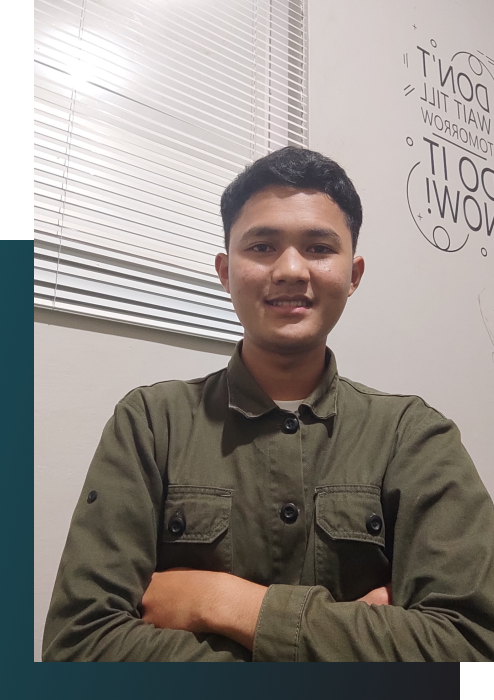
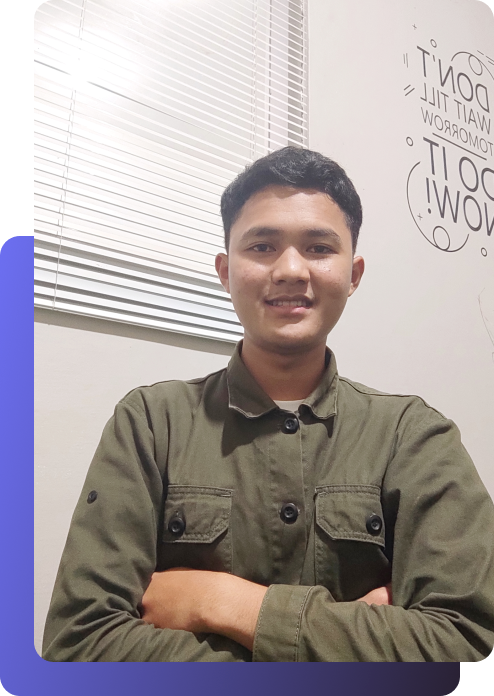
revisi

diff --git a/index.html b/index.html
@@ -107,7 +107,7 @@
                 <p class="font-medium text-base text-secondary mb-6">Ayo ikuti sosial media saya</p>
                 <div class="flex items-center">
                     <!-- youtube -->
-                    <a href="https://youtube.com/RAFMLNA" aria-label="youtube rafli"target="_blank" class="w-9 h-9 mr-3 rounded-full flex justify-center items-center border border-slate-400 hover:bg-primary hover:border-primary hover:text-white">
+                    <a href="https://youtube.com/@rafliadijaya2196" aria-label="youtube rafli"target="_blank" class="w-9 h-9 mr-3 rounded-full flex justify-center items-center border border-slate-400 hover:bg-primary hover:border-primary hover:text-white">
                         <svg viewBox="0 0 512 512" width="20" xmlns="http://www.w3.org/2000/svg" xmlns:xlink="http://www.w3.org/1999/xlink" class="fill-current dark:fill-white"><g><path d="M260.4,449c-57.1-1.8-111.4-3.2-165.7-5.3c-11.7-0.5-23.6-2.3-35-5c-21.4-5-36.2-17.9-43.8-39c-6.1-17-8.3-34.5-9.9-52.3   C2.5,305.6,2.5,263.8,4.2,222c1-23.6,1.6-47.4,7.9-70.3c3.8-13.7,8.4-27.1,19.5-37c11.7-10.5,25.4-16.8,41-17.5   c42.8-2.1,85.5-4.7,128.3-5.1c57.6-0.6,115.3,0.2,172.9,1.3c24.9,0.5,50,1.8,74.7,5c22.6,3,39.5,15.6,48.5,37.6   c6.9,16.9,9.5,34.6,11,52.6c3.9,45.1,4,90.2,1.8,135.3c-1.1,22.9-2.2,45.9-8.7,68.2c-7.4,25.6-23.1,42.5-49.3,48.3   c-10.2,2.2-20.8,3-31.2,3.4C366.2,445.7,311.9,447.4,260.4,449z M205.1,335.3c45.6-23.6,90.7-47,136.7-70.9   c-45.9-24-91-47.5-136.7-71.4C205.1,240.7,205.1,287.6,205.1,335.3z"/></g></svg>
                     </a>
                     <!-- Instagram -->
@@ -115,7 +115,7 @@
                         <svg width="20" class="fill-current dark:fill-white" viewBox="0 0 512 512" xmlns="http://www.w3.org/2000/svg"><g><path d="M505,257c0,34.8-0.7,69.7,0.2,104.5c1.5,61.6-37.2,109.2-86.5,130.4c-19.8,8.5-40.6,13-62.1,13c-67.3,0.1-134.7,1-202-0.3   c-50.7-1-92.4-22.2-122.3-64c-15.7-22-23.2-47-23.2-74.1c0-71.7,0-143.3,0-215c0-58.5,28.5-99.4,79.1-126C110.2,14,134.1,9.1,159,9   c65.3,0,130.7-0.4,196,0.2c50.7,0.4,93,19.8,124.2,60.6c17.4,22.8,25.8,49,25.8,77.8C505,184,505,220.5,505,257z M46,257   c0,36.7,0,73.3,0,110c0,16.4,3.8,31.8,12.3,45.7c22.3,36.5,56,54.3,97.8,55c67.1,1,134.3,0.4,201.5,0.2c16.5,0,32.5-3.4,47.4-10.5   c40.6-19.4,63.3-50.3,63.1-96.7c-0.4-71-0.1-142-0.1-213c0-20.1-5.7-38.5-17.6-54.7c-23-31.1-54.8-46.4-92.8-46.8   c-67-0.8-134-0.3-201-0.2c-14.3,0-28.1,2.9-41.5,7.9c-36.8,13.7-71,48.4-69.4,99.5C46.9,188,46,222.5,46,257z"/><path d="M257.6,363c-64.5,0-116.5-51.4-116.6-115.4c-0.1-63,52.3-114.6,116.4-114.6c64.3-0.1,116.5,51.4,116.6,114.9   C374,311.3,321.9,362.9,257.6,363z M257.6,326c43.9,0,79.5-35.1,79.4-78.3c-0.1-42.8-35.7-77.8-79.4-77.8   c-43.9,0-79.7,34.9-79.7,78C178,291.1,213.7,326.1,257.6,326z"/><path d="M387.5,98c13.5,0,24.5,11.5,24.5,25.6c-0.1,14.1-11.2,25.5-24.7,25.4c-13.3-0.1-24.2-11.5-24.2-25.3   C363,109.6,374,98,387.5,98z"/></g></svg>
                     </a>
                     <!-- WhatsApp -->
-                    <a href="https://whatsapp.com/081320179936" target="_blank" class="w-9 h-9 mr-3 rounded-full flex justify-center items-center border border-slate-400 hover:bg-primary hover:border-primary hover:text-white">
+                    <a href="https://wa.me/081320179936" target="_blank" class="w-9 h-9 mr-3 rounded-full flex justify-center items-center border border-slate-400 hover:bg-primary hover:border-primary hover:text-white">
                         <svg xmlns="http://www.w3.org/2000/svg" x="0px" y="0px"
 	 width="20" viewBox="0 0 90 90" class="fill-current dark:fill-white">
 <g>
@@ -134,7 +134,7 @@
 <g></g><g></g><g></g><g></g><g></g><g></g><g></g><g></g><g></g><g></g><g></g></svg>
                     </a>
                     <!-- git hub -->
-                    <a href="https://youtube.com/RAFMLNA" target="_blank" class="w-9 h-9 mr-3 rounded-full flex justify-center items-center border border-slate-400 hover:bg-primary hover:border-primary hover:text-white">
+                    <a href="https://github.com/Raflisky" target="_blank" class="w-9 h-9 mr-3 rounded-full flex justify-center items-center border border-slate-400 hover:bg-primary hover:border-primary hover:text-white">
                         <svg class="fill-current dark:fill-white" width="100%" height="100%" viewBox="0 0 64 64" version="1.1" xmlns="http://www.w3.org/2000/svg" xmlns:xlink="http://www.w3.org/1999/xlink" xml:space="preserve" xmlns:serif="http://www.serif.com/" style="fill-rule:evenodd;clip-rule:evenodd;stroke-linejoin:round;stroke-miterlimit:2;"><rect id="Icons" x="0" y="-192" width="1280" height="800" style="fill:none;"/><g id="Icons1" serif:id="Icons"><g id="Strike"></g><g id="H1"></g><g id="H2"></g><g id="H3"></g><g id="list-ul"></g><g id="hamburger-1"></g><g id="hamburger-2"></g><g id="list-ol"></g><g id="list-task"></g><g id="trash"></g><g id="vertical-menu"></g><g id="horizontal-menu"></g><g id="sidebar-2"></g><g id="Pen"></g><g id="Pen1" serif:id="Pen"></g><g id="clock"></g><g id="external-link"></g><g id="hr"></g><g id="info"></g><g id="warning"></g><g id="plus-circle"></g><g id="minus-circle"></g><g id="vue"></g><g id="cog"></g><path id="github" d="M32.029,8.345c-13.27,0 -24.029,10.759 -24.029,24.033c0,10.617 6.885,19.624 16.435,22.803c1.202,0.22 1.64,-0.522 1.64,-1.16c0,-0.569 -0.02,-2.081 -0.032,-4.086c-6.685,1.452 -8.095,-3.222 -8.095,-3.222c-1.093,-2.775 -2.669,-3.514 -2.669,-3.514c-2.182,-1.492 0.165,-1.462 0.165,-1.462c2.412,0.171 3.681,2.477 3.681,2.477c2.144,3.672 5.625,2.611 6.994,1.997c0.219,-1.553 0.838,-2.612 1.526,-3.213c-5.336,-0.606 -10.947,-2.669 -10.947,-11.877c0,-2.623 0.937,-4.769 2.474,-6.449c-0.247,-0.608 -1.072,-3.051 0.235,-6.36c0,0 2.018,-0.646 6.609,2.464c1.917,-0.533 3.973,-0.8 6.016,-0.809c2.041,0.009 4.097,0.276 6.017,0.809c4.588,-3.11 6.602,-2.464 6.602,-2.464c1.311,3.309 0.486,5.752 0.239,6.36c1.54,1.68 2.471,3.826 2.471,6.449c0,9.232 -5.62,11.263 -10.974,11.858c0.864,0.742 1.632,2.208 1.632,4.451c0,3.212 -0.029,5.804 -0.029,6.591c0,0.644 0.432,1.392 1.652,1.157c9.542,-3.185 16.421,-12.186 16.421,-22.8c0,-13.274 -10.76,-24.033 -24.034,-24.033"/><g id="logo"></g><g id="eye-slash"></g><g id="eye"></g><g id="toggle-off"></g><g id="shredder"></g><g id="spinner--loading--dots-" serif:id="spinner [loading, dots]"></g><g id="react"></g></g></svg>
                     </a>
                 </div>
@@ -158,10 +158,10 @@
             <div class="w-full px-4 flex flex-wrap justify-center xl:w-10/12 xl:mx-auto">
                 <div class="mb-12 p-4 md:w-1/2">
                     <div class="rounded shadow-md overflow-hidden">
-                        <img src="assets/img/absenGG.png" alt="Absen Siswa Web" width="w-full">
+                        <img src="assets/img/project-foodid.png" alt="Absen Siswa Web" width="w-full">
                     </div>
-                    <h3 class="font-semibold text-xl text-white dark:text-white mt-5 mb-5">Aplikasi Sekolah Berbasis Web</h3>
-                    <p class="font-medium text-base text-slate-500">Aplikasi website ini dibuat dengan menggunakan bahasa pemerograman Javascript dan PHP.</p>
+                    <h3 class="font-semibold text-xl text-white dark:text-white mt-5 mb-5">Landing Page Foodid</h3>
+                    <p class="font-medium text-base text-slate-500">Website ini dibuat dengan menggunakan bahasa pemerograman Javascript dengan frameworknya Dari React yaitu Next JS dan untuk</p>
                 </div>
                 <div class="mb-12 p-4 md:w-1/2">
                     <div class="rounded shadow-md overflow-hidden">
@@ -388,7 +388,7 @@
                     <svg class="fill-white" width="100%" height="100%" viewBox="0 0 64 64" version="1.1" xmlns="http://www.w3.org/2000/svg" xmlns:xlink="http://www.w3.org/1999/xlink" xml:space="preserve" xmlns:serif="http://www.serif.com/" style="fill-rule:evenodd;clip-rule:evenodd;stroke-linejoin:round;stroke-miterlimit:2;"><rect id="Icons" x="0" y="-192" width="1280" height="800" style="fill:none;"/><g id="Icons1" serif:id="Icons"><g id="Strike"></g><g id="H1"></g><g id="H2"></g><g id="H3"></g><g id="list-ul"></g><g id="hamburger-1"></g><g id="hamburger-2"></g><g id="list-ol"></g><g id="list-task"></g><g id="trash"></g><g id="vertical-menu"></g><g id="horizontal-menu"></g><g id="sidebar-2"></g><g id="Pen"></g><g id="Pen1" serif:id="Pen"></g><g id="clock"></g><g id="external-link"></g><g id="hr"></g><g id="info"></g><g id="warning"></g><g id="plus-circle"></g><g id="minus-circle"></g><g id="vue"></g><g id="cog"></g><path id="github" d="M32.029,8.345c-13.27,0 -24.029,10.759 -24.029,24.033c0,10.617 6.885,19.624 16.435,22.803c1.202,0.22 1.64,-0.522 1.64,-1.16c0,-0.569 -0.02,-2.081 -0.032,-4.086c-6.685,1.452 -8.095,-3.222 -8.095,-3.222c-1.093,-2.775 -2.669,-3.514 -2.669,-3.514c-2.182,-1.492 0.165,-1.462 0.165,-1.462c2.412,0.171 3.681,2.477 3.681,2.477c2.144,3.672 5.625,2.611 6.994,1.997c0.219,-1.553 0.838,-2.612 1.526,-3.213c-5.336,-0.606 -10.947,-2.669 -10.947,-11.877c0,-2.623 0.937,-4.769 2.474,-6.449c-0.247,-0.608 -1.072,-3.051 0.235,-6.36c0,0 2.018,-0.646 6.609,2.464c1.917,-0.533 3.973,-0.8 6.016,-0.809c2.041,0.009 4.097,0.276 6.017,0.809c4.588,-3.11 6.602,-2.464 6.602,-2.464c1.311,3.309 0.486,5.752 0.239,6.36c1.54,1.68 2.471,3.826 2.471,6.449c0,9.232 -5.62,11.263 -10.974,11.858c0.864,0.742 1.632,2.208 1.632,4.451c0,3.212 -0.029,5.804 -0.029,6.591c0,0.644 0.432,1.392 1.652,1.157c9.542,-3.185 16.421,-12.186 16.421,-22.8c0,-13.274 -10.76,-24.033 -24.034,-24.033"/><g id="logo"></g><g id="eye-slash"></g><g id="eye"></g><g id="toggle-off"></g><g id="shredder"></g><g id="spinner--loading--dots-" serif:id="spinner [loading, dots]"></g><g id="react"></g></g></svg>
                 </a>
             </div>
-            <p class="font-medium text-xs text-slate-500 text-center hover:text-slate-300 transition duration-500">© 2022 Rafli Maulana Yusuf Herman. All rights reserved.</p>
+            <p class="font-medium text-xs text-slate-500 text-center hover:text-slate-300 transition duration-500">© 2023 Rafli Maulana Yusuf Herman. All rights reserved.</p>
         </div>
     </div> 
 </footer>

diff --git a/dist/output.css b/dist/output.css
@@ -575,28 +575,12 @@ video {
   top: 100%;
 }
 
-.bottom-0 {
-  bottom: 0px;
-}
-
-.left-1\/2 {
-  left: 50%;
-}
-
 .bottom-5 {
   bottom: 1.25rem;
 }
 
 .right-5 {
   right: 1.25rem;
-}
-
-.bottom-10 {
-  bottom: 2.5rem;
-}
-
-.right-10 {
-  right: 2.5rem;
 }
 
 .z-10 {
@@ -642,8 +626,8 @@ video {
   margin-bottom: 2.5rem;
 }
 
-.mt-10 {
-  margin-top: 2.5rem;
+.mt-16 {
+  margin-top: 4rem;
 }
 
 .mb-3 {
@@ -686,10 +670,6 @@ video {
   margin-bottom: 2rem;
 }
 
-.mt-16 {
-  margin-top: 4rem;
-}
-
 .block {
   display: block;
 }
@@ -722,14 +702,6 @@ video {
   height: 8rem;
 }
 
-.h-10 {
-  height: 2.5rem;
-}
-
-.h-20 {
-  height: 5rem;
-}
-
 .h-11 {
   height: 2.75rem;
 }
@@ -748,14 +720,6 @@ video {
 
 .w-44 {
   width: 11rem;
-}
-
-.w-10 {
-  width: 2.5rem;
-}
-
-.w-20 {
-  width: 5rem;
 }
 
 .w-11 {
@@ -788,15 +752,6 @@ video {
 
 .origin-bottom-left {
   transform-origin: bottom left;
-}
-
-.-translate-x-1\/2 {
-  --tw-translate-x: -50%;
-  transform: translate(var(--tw-translate-x), var(--tw-translate-y)) rotate(var(--tw-rotate)) skewX(var(--tw-skew-x)) skewY(var(--tw-skew-y)) scaleX(var(--tw-scale-x)) scaleY(var(--tw-scale-y));
-}
-
-.transform {
-  transform: translate(var(--tw-translate-x), var(--tw-translate-y)) rotate(var(--tw-rotate)) skewX(var(--tw-skew-x)) skewY(var(--tw-skew-y)) scaleX(var(--tw-scale-x)) scaleY(var(--tw-scale-y));
 }
 
 .cursor-pointer {
@@ -895,12 +850,12 @@ video {
 
 .bg-primary {
   --tw-bg-opacity: 1;
-  background-color: rgb(10 59 71 / var(--tw-bg-opacity));
+  background-color: rgb(99 102 241 / var(--tw-bg-opacity));
 }
 
-.bg-slate-400 {
+.bg-gray-800 {
   --tw-bg-opacity: 1;
-  background-color: rgb(148 163 184 / var(--tw-bg-opacity));
+  background-color: rgb(31 41 55 / var(--tw-bg-opacity));
 }
 
 .bg-dark {
@@ -916,11 +871,6 @@ video {
 .bg-slate-300 {
   --tw-bg-opacity: 1;
   background-color: rgb(203 213 225 / var(--tw-bg-opacity));
-}
-
-.bg-gray-800 {
-  --tw-bg-opacity: 1;
-  background-color: rgb(31 41 55 / var(--tw-bg-opacity));
 }
 
 .fill-current {
@@ -968,6 +918,11 @@ video {
   padding-right: 2rem;
 }
 
+.px-7 {
+  padding-left: 1.75rem;
+  padding-right: 1.75rem;
+}
+
 .py-4 {
   padding-top: 1rem;
   padding-bottom: 1rem;
@@ -991,11 +946,6 @@ video {
 .px-5 {
   padding-left: 1.25rem;
   padding-right: 1.25rem;
-}
-
-.px-7 {
-  padding-left: 1.75rem;
-  padding-right: 1.75rem;
 }
 
 .pl-8 {
@@ -1100,7 +1050,7 @@ video {
 
 .text-primary {
   --tw-text-opacity: 1;
-  color: rgb(10 59 71 / var(--tw-text-opacity));
+  color: rgb(99 102 241 / var(--tw-text-opacity));
 }
 
 .text-dark {
@@ -1123,14 +1073,14 @@ video {
   color: rgb(255 255 255 / var(--tw-text-opacity));
 }
 
-.text-slate-600 {
-  --tw-text-opacity: 1;
-  color: rgb(71 85 105 / var(--tw-text-opacity));
-}
-
 .text-slate-500 {
   --tw-text-opacity: 1;
   color: rgb(100 116 139 / var(--tw-text-opacity));
+}
+
+.text-slate-600 {
+  --tw-text-opacity: 1;
+  color: rgb(71 85 105 / var(--tw-text-opacity));
 }
 
 .text-slate-300 {
@@ -1152,11 +1102,6 @@ video {
   --tw-shadow: 0 4px 6px -1px rgb(0 0 0 / 0.1), 0 2px 4px -2px rgb(0 0 0 / 0.1);
   --tw-shadow-colored: 0 4px 6px -1px var(--tw-shadow-color), 0 2px 4px -2px var(--tw-shadow-color);
   box-shadow: var(--tw-ring-offset-shadow, 0 0 #0000), var(--tw-ring-shadow, 0 0 #0000), var(--tw-shadow);
-}
-
-.grayscale-0 {
-  --tw-grayscale: grayscale(0);
-  filter: var(--tw-blur) var(--tw-brightness) var(--tw-contrast) var(--tw-grayscale) var(--tw-hue-rotate) var(--tw-invert) var(--tw-saturate) var(--tw-sepia) var(--tw-drop-shadow);
 }
 
 .transition {
@@ -1242,12 +1187,12 @@ body {
 
 .hover\:border-primary:hover {
   --tw-border-opacity: 1;
-  border-color: rgb(10 59 71 / var(--tw-border-opacity));
+  border-color: rgb(99 102 241 / var(--tw-border-opacity));
 }
 
 .hover\:bg-primary:hover {
   --tw-bg-opacity: 1;
-  background-color: rgb(10 59 71 / var(--tw-bg-opacity));
+  background-color: rgb(99 102 241 / var(--tw-bg-opacity));
 }
 
 .hover\:text-white:hover {
@@ -1257,7 +1202,7 @@ body {
 
 .hover\:text-primary:hover {
   --tw-text-opacity: 1;
-  color: rgb(10 59 71 / var(--tw-text-opacity));
+  color: rgb(99 102 241 / var(--tw-text-opacity));
 }
 
 .hover\:text-slate-300:hover {
@@ -1290,7 +1235,7 @@ body {
 
 .focus\:border-primary:focus {
   --tw-border-opacity: 1;
-  border-color: rgb(10 59 71 / var(--tw-border-opacity));
+  border-color: rgb(99 102 241 / var(--tw-border-opacity));
 }
 
 .focus\:outline-none:focus {
@@ -1306,12 +1251,12 @@ body {
 
 .focus\:ring-primary:focus {
   --tw-ring-opacity: 1;
-  --tw-ring-color: rgb(10 59 71 / var(--tw-ring-opacity));
+  --tw-ring-color: rgb(99 102 241 / var(--tw-ring-opacity));
 }
 
 .group:hover .group-hover\:text-primary {
   --tw-text-opacity: 1;
-  color: rgb(10 59 71 / var(--tw-text-opacity));
+  color: rgb(99 102 241 / var(--tw-text-opacity));
 }
 
 .dark .dark\:bg-dark {
@@ -1338,19 +1283,14 @@ body {
   color: rgb(255 255 255 / var(--tw-text-opacity));
 }
 
-.dark .dark\:text-slate-600 {
+.dark .dark\:text-slate-500 {
   --tw-text-opacity: 1;
-  color: rgb(71 85 105 / var(--tw-text-opacity));
+  color: rgb(100 116 139 / var(--tw-text-opacity));
 }
 
 .dark .dark\:text-slate-300 {
   --tw-text-opacity: 1;
   color: rgb(203 213 225 / var(--tw-text-opacity));
-}
-
-.dark .dark\:text-slate-500 {
-  --tw-text-opacity: 1;
-  color: rgb(100 116 139 / var(--tw-text-opacity));
 }
 
 .dark .dark\:shadow-slate-400 {
@@ -1377,12 +1317,6 @@ body {
 
   .md\:w-1\/3 {
     width: 33.333333%;
-  }
-
-  .md\:scale-125 {
-    --tw-scale-x: 1.25;
-    --tw-scale-y: 1.25;
-    transform: translate(var(--tw-translate-x), var(--tw-translate-y)) rotate(var(--tw-rotate)) skewX(var(--tw-skew-x)) skewY(var(--tw-skew-y)) scaleX(var(--tw-scale-x)) scaleY(var(--tw-scale-y));
   }
 
   .md\:text-xl {

diff --git a/tailwind.config.js b/tailwind.config.js
@@ -1,22 +1,22 @@
 /** @type {import('tailwindcss').Config} */
 module.exports = {
-  content: ['index.html'],
-  darkMode: 'class',
+  content: ["index.html"],
+  darkMode: "class",
   theme: {
     container: {
       center: true,
-      padding: '16px',
+      padding: "16px",
     },
     extend: {
       colors: {
-        primary: '#0a3b47',
-        dark: '#0f172a',
-        secondary: '#64748b'
+        primary: "#6366F1",
+        dark: "#0f172a",
+        secondary: "#64748b",
       },
       screens: {
-        '2xl': '1320px',
+        "2xl": "1320px",
       },
     },
   },
   plugins: [],
-}
+};
